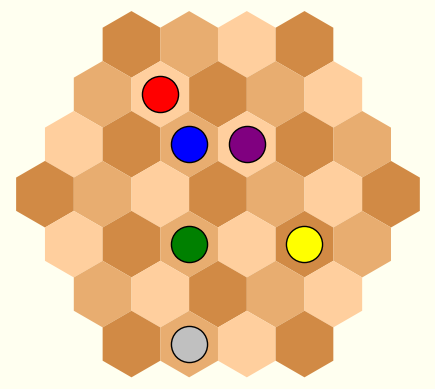
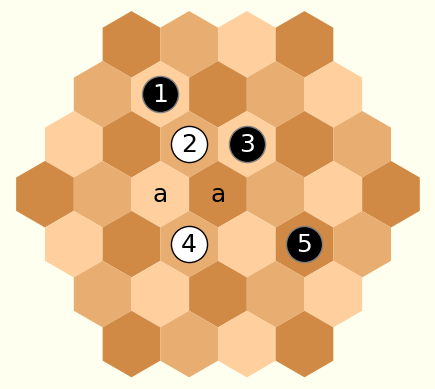
update, new version

diff --git a/code/Board.py b/code/Board.py
@@ -88,7 +88,10 @@ def draw_board(n_rows, n_cols, stones,
                            markerfacecolor=background, 
                            markeredgewidth=2/RATIO)
   
-      color = 'white' if (x,y) in stones['black'] else 'black'
+      if (x,y) in stones['black'] or (x,y) in stones['purple'] or (x,y) in stones['blue']:
+        color = 'white' 
+      else:
+        color = 'black'
       ax.text(x, y, s, size=LABEL_SIZE, color=color, ha='center', va='center')
     
   # draw markers  
@@ -140,6 +143,9 @@ def intersections(grid):
   lines = [line for line in grid.split('\n') if len(line)>0] # remove empty lines
   n_rows, n_cols = len(lines), len(lines[0].split())
   
+  stone_color = {'x':'black', 'o':'white',  'r':'red',    'l':'blue', 
+                 'g':'green', 'p':'purple', 'y':'yellow', 's':'silver'}
+    
   stones, labels, markers = defaultdict(list), [], []
   for r, line in enumerate(lines):
     for c, stone in enumerate(line.split()):
@@ -160,6 +166,12 @@ def intersections(grid):
           markers.append( (c+0.001, n_rows-r-1, 'lightgray', 28/RATIO, 'o') )
         if stone[0] == 'Q':
           markers.append( (c+0.001, n_rows-r-1, 'black', 14/RATIO, 's') )
+        if len(stone) > 1: # this is a labeled stone
+          labels.append( (c, n_rows-r-1, stone[1:]) )
+
+      # other colors
+      elif stone[0] in stone_color:
+        stones[stone_color[stone[0]]].append( (c, n_rows-r-1) )
         if len(stone) > 1: # this is a labeled stone
           labels.append( (c, n_rows-r-1, stone[1:]) )
           

diff --git a/code/HexagonalBoard.py b/code/HexagonalBoard.py
@@ -82,7 +82,7 @@ def draw_hexboard(board, *,
       ax.text(x, y, stone[1:], color='black', ha='center', va='center', size=label_sz)
 
   ax.autoscale_view()
-  plt.savefig(filename) # save board as svg
+  plt.savefig(filename, bbox_inches='tight') # save board as svg
 
 ###
 

diff --git a/README.md b/README.md
@@ -53,6 +53,30 @@ Sq(ko, go_like=False, filename='ko.svg');
     
 
 
+It's possible to represent color stones directly:
+
+
+```python
+red_white_blue = """
+l l l l l l l l  
+l l o2 o2 o2 o2 l l  
+l . .  o2 o2 o2 . l  
+. . . . . . . . 
+. . . . . . . .  
+r . .  o1 o1 o1 r r  
+r r o1 o1 o1 o1 r r 
+r r r r r r r r 
+"""
+
+Sq(red_white_blue, filename='2026_02_Red_White_Blue_setup.svg');
+```
+
+
+    
+![png](imgs/output_10_0.png)
+    
+
+
 The class also accepts a list of moves (must set parameter `size` with the board size):
 
 
@@ -72,7 +96,7 @@ Sq(match, size=(6,9));
 
 
     
-![png](imgs/output_10_0.png)
+![png](imgs/output_12_0.png)
     
 
 
@@ -100,7 +124,7 @@ Hex(board);
 
 
     
-![png](imgs/output_13_0.png)
+![png](imgs/output_15_0.png)
     
 
 
@@ -188,7 +212,7 @@ draw_board(*data) # this SVG diagram is saved as a file in the notebook's folder
 
 
     
-![png](imgs/output_26_0.png)
+![png](imgs/output_28_0.png)
     
 
 
@@ -203,7 +227,7 @@ draw_board(*data)
 
 
     
-![png](imgs/output_28_0.png)
+![png](imgs/output_30_0.png)
     
 
 
@@ -248,7 +272,7 @@ draw_board(*squares(alak))
 
 
     
-![png](imgs/output_32_0.png)
+![png](imgs/output_34_0.png)
     
 
 
@@ -263,7 +287,7 @@ draw_board(*squares(alak))
 
 
     
-![png](imgs/output_34_0.png)
+![png](imgs/output_36_0.png)
     
 
 
@@ -284,7 +308,7 @@ draw_board(*squares(board), background='khaki')
 
 
     
-![png](imgs/output_36_0.png)
+![png](imgs/output_38_0.png)
     
 
 
@@ -362,7 +386,7 @@ draw_board(*intersections(board))
 
 
     
-![png](imgs/output_46_0.png)
+![png](imgs/output_48_0.png)
     
 
 
@@ -395,7 +419,7 @@ draw_board(*intersections(board))
 
 
     
-![png](imgs/output_50_0.png)
+![png](imgs/output_52_0.png)
     
 
 
@@ -407,7 +431,7 @@ draw_board(*squares(board))
 
 
     
-![png](imgs/output_51_0.png)
+![png](imgs/output_53_0.png)
     
 
 
@@ -483,7 +507,7 @@ draw_board(*intersections(board))
 
 
     
-![png](imgs/output_55_0.png)
+![png](imgs/output_57_0.png)
     
 
 
@@ -510,7 +534,7 @@ draw_board(8, 8, stones, labels, markers, coordinates=1) # coordinates=1 for int
 
 
     
-![png](imgs/output_58_0.png)
+![png](imgs/output_60_0.png)
     
 
 
@@ -610,7 +634,7 @@ draw_hexboard(hex_coords(board))
 
 
     
-![png](imgs/output_68_0.png)
+![png](imgs/output_70_0.png)
     
 
 
@@ -632,7 +656,7 @@ draw_hexboard(hex_coords(board))
 
 
     
-![png](imgs/output_70_0.png)
+![png](imgs/output_72_0.png)
     
 
 
@@ -654,7 +678,7 @@ draw_hexboard(hex_coords(board))
 
 
     
-![png](imgs/output_72_0.png)
+![png](imgs/output_74_0.png)
     
 
 
@@ -667,7 +691,7 @@ draw_hexboard(hex_coords(board), hexcolor='rgb')
 
 
     
-![png](imgs/output_74_0.png)
+![png](imgs/output_76_0.png)
     
 
 
@@ -680,7 +704,7 @@ draw_hexboard(hex_coords(board), hexcolor='azure', edgecolor='steelblue')
 
 
     
-![png](imgs/output_76_0.png)
+![png](imgs/output_78_0.png)
     
 
 
@@ -693,7 +717,7 @@ draw_hexboard(hex_coords(board), hexcolor='azure', edgecolor='steelblue', rotate
 
 
     
-![png](imgs/output_78_0.png)
+![png](imgs/output_80_0.png)
     
 
 
@@ -708,7 +732,7 @@ draw_hexboard(hexes, hexcolor='azure', edgecolor='steelblue')
 
 
     
-![png](imgs/output_80_0.png)
+![png](imgs/output_82_0.png)
     
 
 
@@ -730,7 +754,7 @@ draw_hexboard(hex_coords(hex), hexcolor='white', edgecolor='cyan', background=No
 
 
     
-![png](imgs/output_82_0.png)
+![png](imgs/output_84_0.png)
     
 
 
@@ -767,7 +791,7 @@ draw_hexboard(hex_coords(board), piece_sz=8, label_sz=8)
 
 
     
-![png](imgs/output_84_0.png)
+![png](imgs/output_86_0.png)
     
 
 
@@ -853,7 +877,7 @@ draw_hexboard(hex_coords(board2string(board)), piece_sz=14, label_sz=8)
 
 
     
-![png](imgs/output_92_0.png)
+![png](imgs/output_94_0.png)
     
 
 
@@ -874,6 +898,15 @@ draw_hexboard(hex_coords(board2string(board)), piece_sz=14, label_sz=8)
 
 
     
-![png](imgs/output_94_0.png)
+![png](imgs/output_96_0.png)
     
 
+
+---
+
+### Versions
+
++ Jan 27
+    + added color stones directly on square boards
+    + background around the board is now tighter
++ Jan 22, 2025 - version 0
